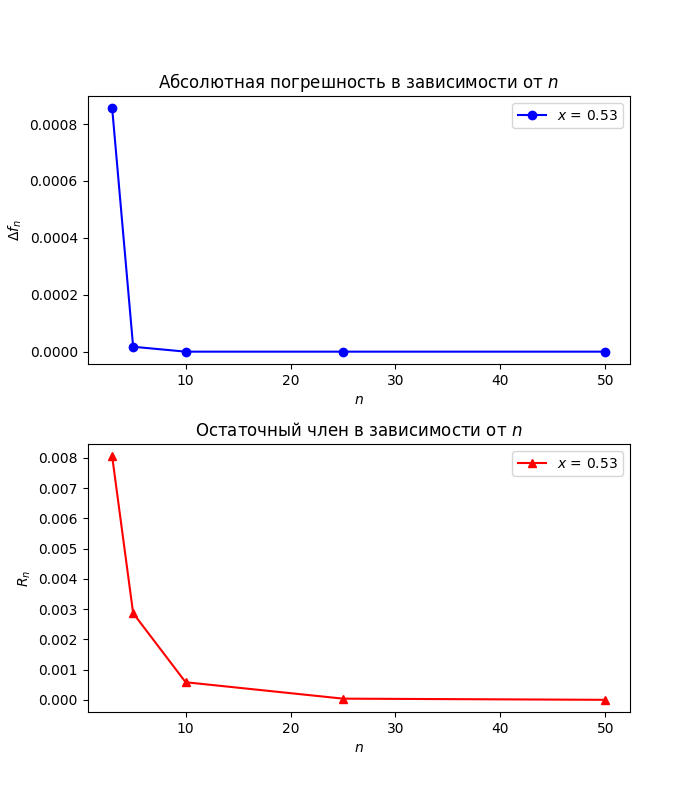
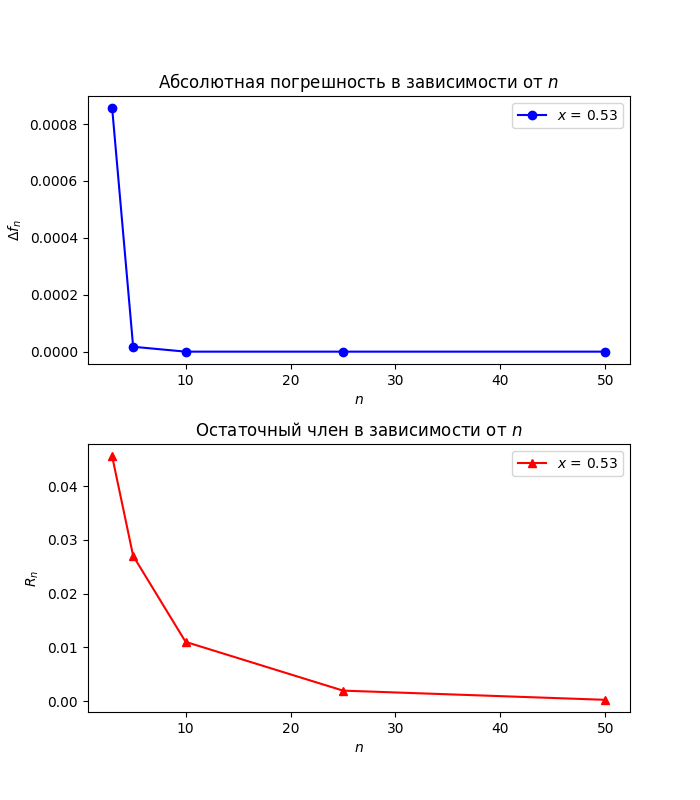
forgot R is proportional to the *n+1* derivative

Changed region(s): [[0.21, 0.7812, 0.81, 0.875], [0.03, 0.5625, 0.12, 0.9062], [0.15, 0.5938, 0.24, 0.7812]]

diff --git a/Labs/lagrange/rust/src/main.rs b/Labs/lagrange/rust/src/main.rs
@@ -114,7 +114,7 @@ fn R(n: &u32, [a, b]: &[f64; 2], x: &f64) -> Result<f64, String> {
         return Err("B O I, 'a' is strictly less than 'b'.".to_string());
     }
 
-    let mut r = match n_th_derivative(n, x) {
+    let mut r = match n_th_derivative(*n + 1, x) {
         Ok(it) => it.abs(),
         Err(err) => return Err(err),
     };
@@ -126,8 +126,8 @@ fn R(n: &u32, [a, b]: &[f64; 2], x: &f64) -> Result<f64, String> {
 }
 
 /// Gets the value of the n-th derivative of y = x^2+log(x) (log in base 10)
-fn n_th_derivative(n: &u32, x: &f64) -> Result<f64, String> {
-    if *n < 1 {
+fn n_th_derivative(n: u32, x: &f64) -> Result<f64, String> {
+    if n < 1 {
         return Err("Are you stupid? Only n >= 1.".to_string());
     }
 
@@ -135,19 +135,19 @@ fn n_th_derivative(n: &u32, x: &f64) -> Result<f64, String> {
     let mut result = 1.0_f64 / 10.0_f64.ln();
     // n-th derivative of ln(x)=(n-1)!(-1)^(n-1)/x^n
     // We get the absolute value
-    if *n == 1 {
+    if n == 1 {
         result /= *x;
     } else {
-        for k in 1..(*n) {
+        for k in 1..(n) {
             result *= k as f64 / *x;
         }
     }
     // Add sign
-    if *n % 2 == 0 {
+    if n % 2 == 0 {
         result *= -1.0_f64;
     }
     // Add n-th derivative of x^2
-    match *n {
+    match n {
         1 => Ok(2.0_f64 * *x + result),
         2 => Ok(2.0_f64 + result),
         _ => Ok(result),
